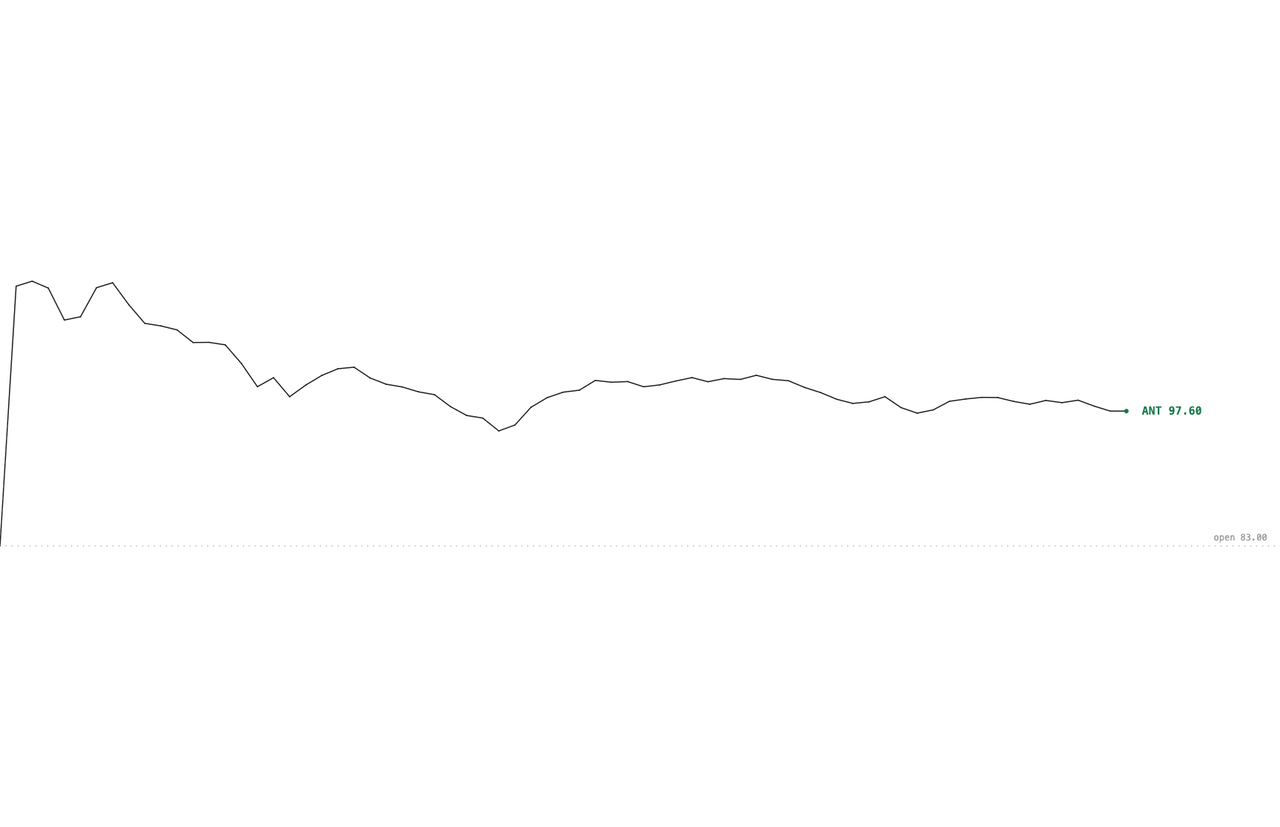
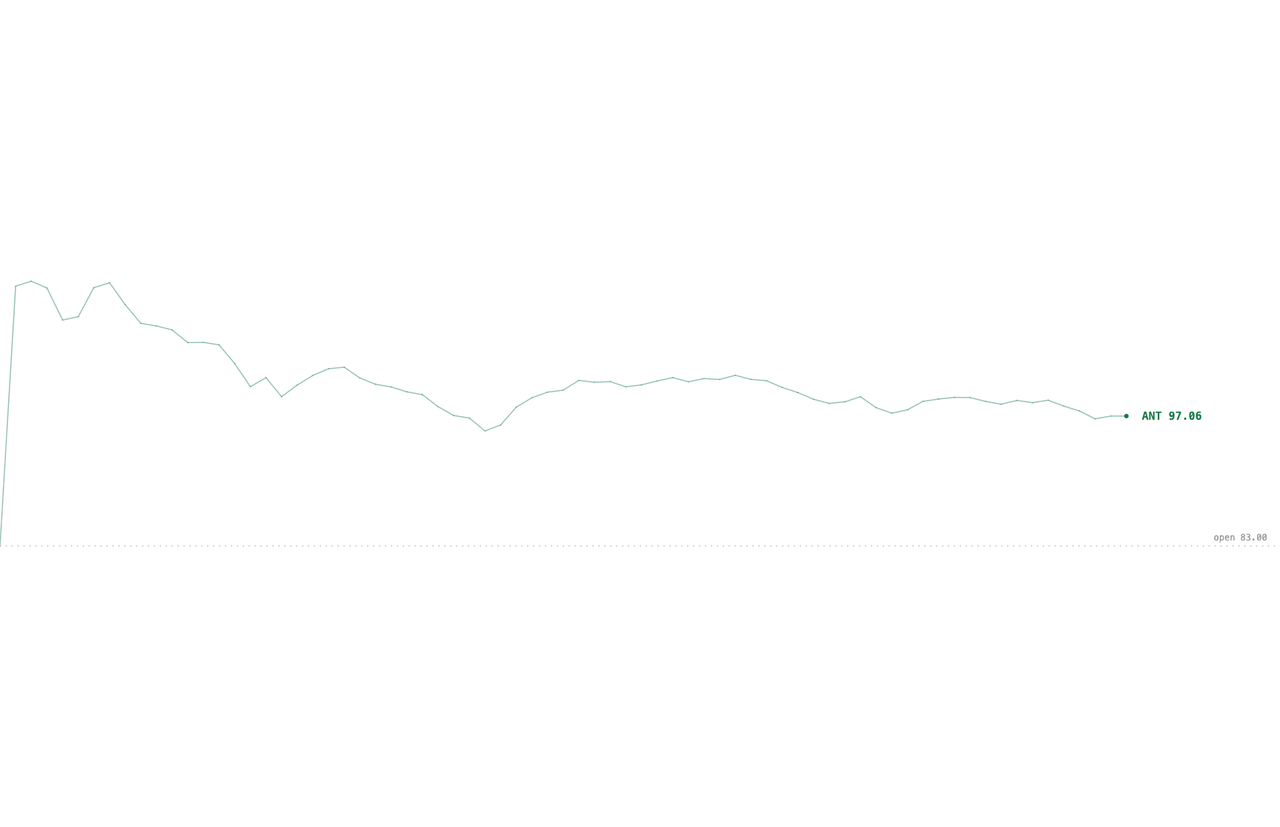
Light line, green above the open and red below

diff --git a/hooks/chart.ts b/hooks/chart.ts
@@ -1,11 +1,10 @@
-// The picture: a white page, the day's price as one jagged line, a dotted line at the day's opening price, and
+// The picture: a white page, the day's price as one light jagged line (green above the open, red below), a dotted line at the day's opening price, and
 // two numbers at the right (the open and the price now). Every place is a share of the window, so it fits any
 // window without stretching the line's thickness.
 
 import type { Quote } from './quote'
 
 const LINE = { left: 0, right: 88, top: 34, bottom: 66 } as const
-const INK = '#1a1a1a'
 const QUIET = '#9a9a9a'
 const UP = '#167a48'
 const DOWN = '#b3392f'
@@ -29,8 +28,11 @@ export function chartSvg(quote: Quote | undefined): string {
   const across = (index: number) => LINE.left + (index / Math.max(1, quote.points.length - 1)) * (LINE.right - LINE.left)
   let line = ''
 
+  // Each piece is green while the price is at or above the open and red below it, judged at the piece's middle.
   for (let index = 1; index < quote.points.length; index += 1) {
-    line += `<line x1="${share(across(index - 1))}" y1="${share(down(quote.points[index - 1]!))}" x2="${share(across(index))}" y2="${share(down(quote.points[index]!))}"/>`
+    const middle = (quote.points[index - 1]! + quote.points[index]!) / 2
+
+    line += `<line x1="${share(across(index - 1))}" y1="${share(down(quote.points[index - 1]!))}" x2="${share(across(index))}" y2="${share(down(quote.points[index]!))}" stroke="${middle >= quote.open ? UP : DOWN}"/>`
   }
 
   const openAt = down(quote.open)
@@ -44,7 +46,7 @@ export function chartSvg(quote: Quote | undefined): string {
   return (
     page +
     `<line x1="0" y1="${share(openAt)}" x2="100%" y2="${share(openAt)}" stroke="${QUIET}" stroke-width="1" stroke-dasharray="1 7" stroke-linecap="round"/>` +
-    `<g stroke="${INK}" stroke-width="1.5" stroke-linecap="round">${line}</g>` +
+    `<g stroke-opacity=".45" stroke-width="1.5" stroke-linecap="round">${line}</g>` +
     `<circle cx="${share(LINE.right)}" cy="${share(tipAt)}" r="3" fill="${colour}"/>` +
     `<text x="99%" y="${share(openAt)}" dy="-7" text-anchor="end" ${LETTERS} font-size="12" fill="${QUIET}">open ${quote.open.toFixed(2)}</text>` +
     `<text x="${share(LINE.right + 1.2)}" y="${share(priceAt)}" dy="5" ${LETTERS} font-size="15" font-weight="600" fill="${colour}">${quote.symbol} ${quote.price.toFixed(2)}</text>` +

diff --git a/test/quote.test.ts b/test/quote.test.ts
@@ -37,10 +37,17 @@ test('draws one line piece per minute and writes both numbers', () => {
 test('colors the price red below the open and keeps it clear of the open label', () => {
   const picture = chartSvg({ symbol: 'ANT', open: 83, price: 82.9, points: [83, 84, 82.9] })
 
+  // The first piece rises above the open (green), the second ends below it but its middle is above (green too).
+  expect(picture.match(/stroke="#167a48"\/>/g)?.length).toBe(2)
+
   expect(picture).toContain('#b3392f')
   // The open sits at 63.09% and the price's own place (66%) is under 4.5 away, so the price is written 4.5 below the open.
   expect(picture).toMatch(/y="63\.09%" dy="-7"[^>]*>open 83\.00/)
   expect(picture).toMatch(/y="67\.59%" dy="5"[^>]*>ANT 82\.90/)
+})
+
+test('colors a piece below the open red', () => {
+  expect(chartSvg({ symbol: 'ANT', open: 83, price: 81, points: [82, 81] })).toContain('stroke="#b3392f"/>')
 })
 
 test('draws an empty white page before the first price arrives', () => {

diff --git a/README.md b/README.md
@@ -6,7 +6,7 @@ A white page with one stock's day drawn as a single jagged line. Nothing else, e
 
 ## What it shows
 
-- **The line:** the day's price, one point a minute, from the open at the left to now at the right.
+- **The line:** the day's price, one point a minute, from the open at the left to now at the right. It is drawn light, green where the price is at or above the open and red where it is below.
 - **The dotted line:** the day's opening price, with `open 83.00` at its right end.
 - **The number at the line's end:** the price now. Green when it is at or above the open, red below it.
 
